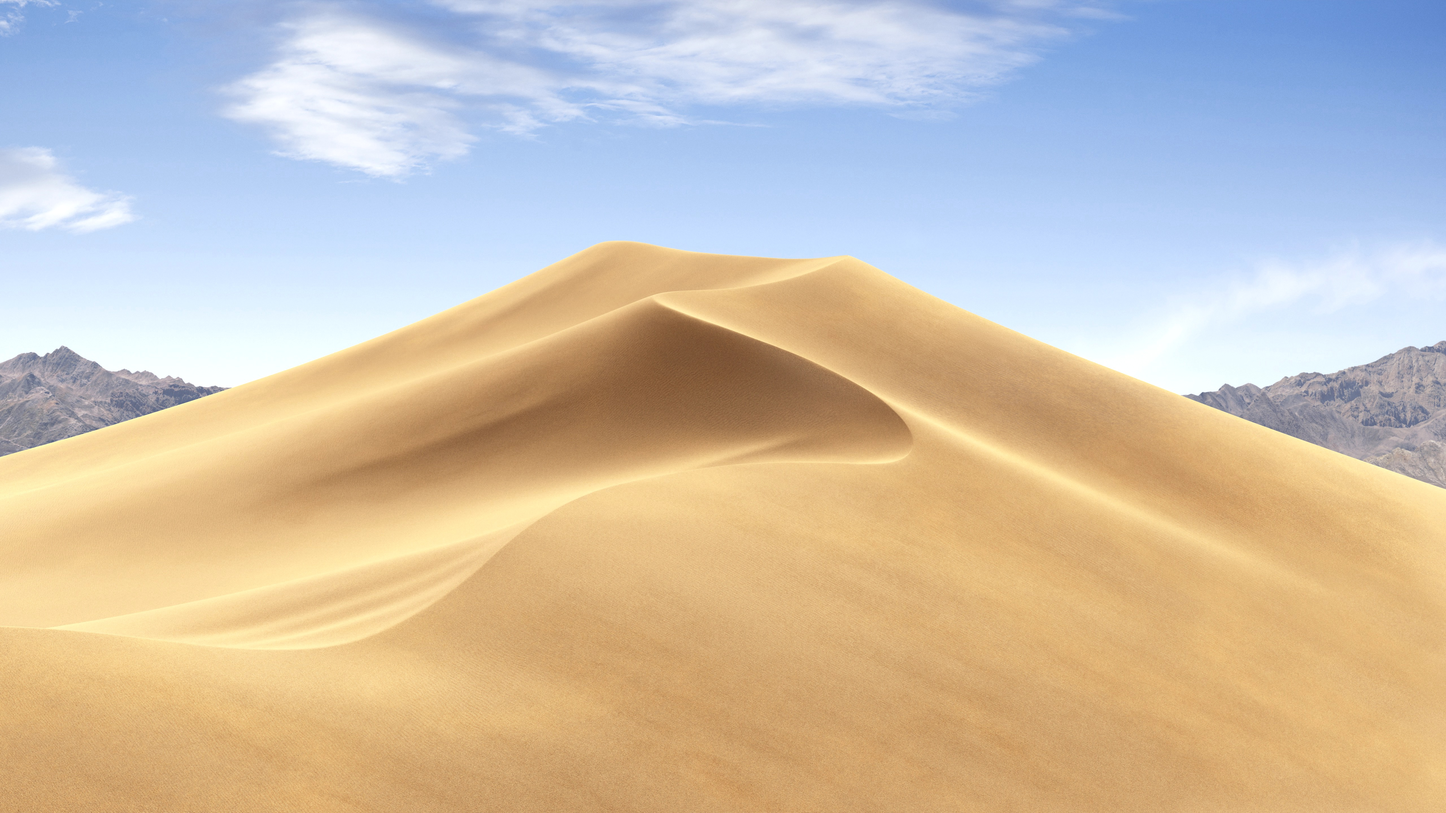
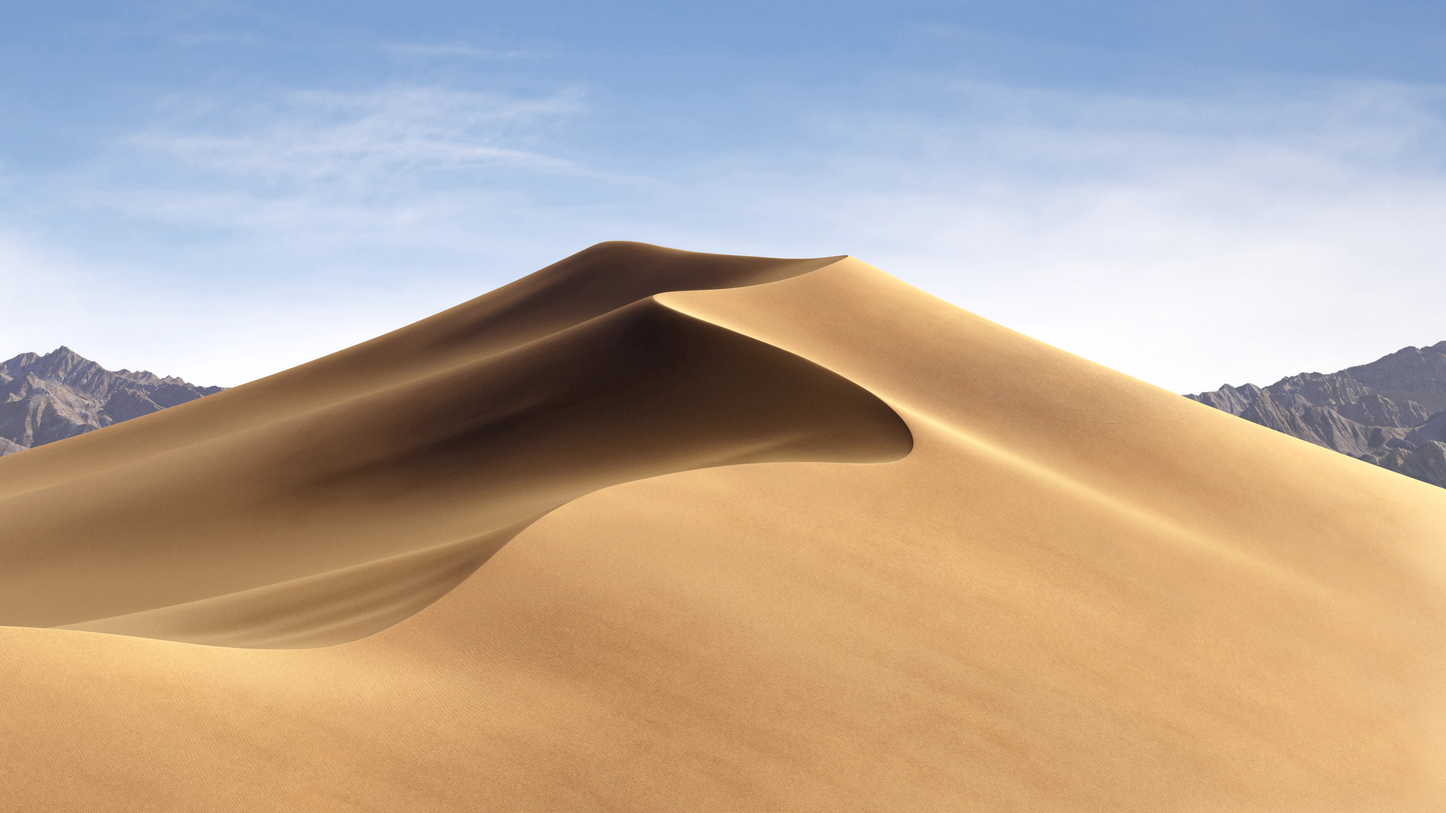
cambio de resolución

diff --git a/index.html b/index.html
@@ -11,22 +11,22 @@
 <body>
     <main>
         <div class="background-container">
-            <img class="background-1 background" src="Mojave/mojave_dynamic_1.jpeg" alt="background">
-            <img class="background-2 background" src="Mojave/mojave_dynamic_2.jpeg" alt="background">
-            <img class="background-3 background" src="Mojave/mojave_dynamic_3.jpeg" alt="background">
-            <img class="background-4 background" src="Mojave/mojave_dynamic_4.jpeg" alt="background">
-            <img class="background-5 background" src="Mojave/mojave_dynamic_5.jpeg" alt="background">
-            <img class="background-6 background" src="Mojave/mojave_dynamic_6.jpeg" alt="background">
-            <img class="background-7 background" src="Mojave/mojave_dynamic_7.jpeg" alt="background">
-            <img class="background-8 background" src="Mojave/mojave_dynamic_8.jpeg" alt="background">
-            <img class="background-9 background" src="Mojave/mojave_dynamic_9.jpeg" alt="background">
-            <img class="background-10 background" src="Mojave/mojave_dynamic_10.jpeg" alt="background">
-            <img class="background-11 background" src="Mojave/mojave_dynamic_11.jpeg" alt="background">
-            <img class="background-12 background" src="Mojave/mojave_dynamic_12.jpeg" alt="background">
-            <img class="background-13 background" src="Mojave/mojave_dynamic_13.jpeg" alt="background">
-            <img class="background-14 background" src="Mojave/mojave_dynamic_14.jpeg" alt="background">
-            <img class="background-15 background" src="Mojave/mojave_dynamic_15.jpeg" alt="background">
-            <img class="background-16 background" src="Mojave/mojave_dynamic_16.jpeg" alt="background">
+            <img class="background-1 background" src="Mojave-reducida/reducidas-1.jpeg" alt="background">
+            <img class="background-2 background" src="Mojave-reducida/reducidas-2.jpeg" alt="background">
+            <img class="background-3 background" src="Mojave-reducida/reducidas-3.jpeg" alt="background">
+            <img class="background-4 background" src="Mojave-reducida/reducidas-4.jpeg" alt="background">
+            <img class="background-5 background" src="Mojave-reducida/reducidas-5.jpeg" alt="background">
+            <img class="background-6 background" src="Mojave-reducida/reducidas-6.jpeg" alt="background">
+            <img class="background-7 background" src="Mojave-reducida/reducidas-7.jpeg" alt="background">
+            <img class="background-8 background" src="Mojave-reducida/reducidas-8.jpeg" alt="background">
+            <img class="background-9 background" src="Mojave-reducida/reducidas-9.jpeg" alt="background">
+            <img class="background-10 background" src="Mojave-reducida/reducidas-10.jpeg" alt="background">
+            <img class="background-11 background" src="Mojave-reducida/reducidas-11.jpeg" alt="background">
+            <img class="background-12 background" src="Mojave-reducida/reducidas-12.jpeg" alt="background">
+            <img class="background-13 background" src="Mojave-reducida/reducidas-13.jpeg" alt="background">
+            <img class="background-14 background" src="Mojave-reducida/reducidas-14.jpeg" alt="background">
+            <img class="background-15 background" src="Mojave-reducida/reducidas-15.jpeg" alt="background">
+            <img class="background-16 background" src="Mojave-reducida/reducidas-16.jpeg" alt="background">
             <input class="search-box" placeholder="Buscar ..."></input>
         </div>
     </main>
